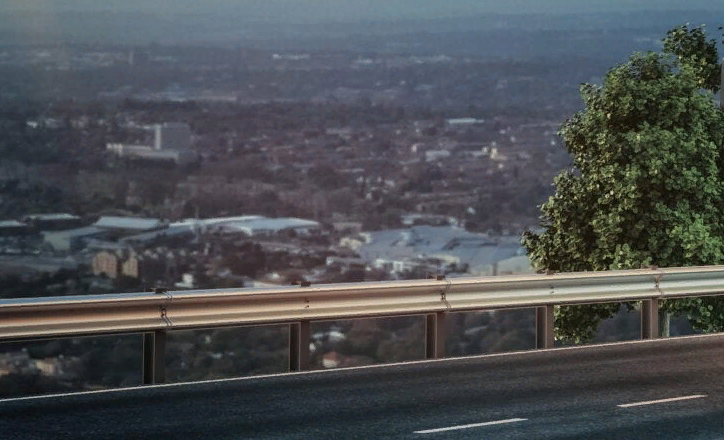
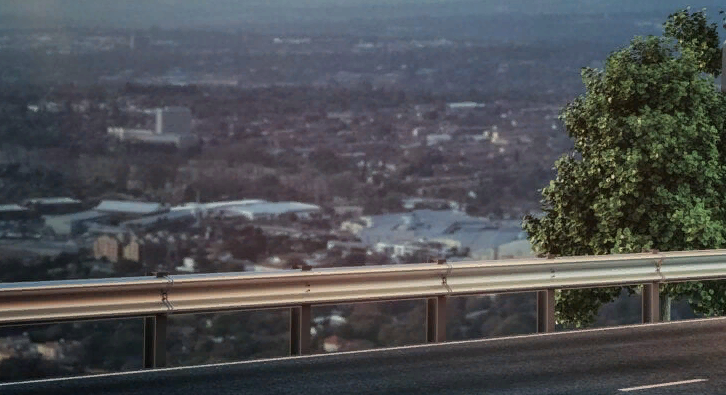
create project

diff --git a/MySite/HTML/Main.html b/MySite/HTML/Main.html
@@ -3,11 +3,11 @@
 <head>
 	<meta charset="utf-8">
 	<meta name="viewport" content="width=device-width, initial-scale=1">
+	<link rel="stylesheet" type="text/css" href="../CSS/header.css">
 	<title>Corporate website design for logistics company</title>
 </head>
 <body>
 <header>
-	<img src="C:\Users\gaert\Desktop\MySite\IMAGES\truck_zoom_on" alt="BackgroundImage">
 </header>
 </body>
 </html>

diff --git a/MySite/CSS/header.css b/MySite/CSS/header.css
@@ -1,0 +1,12 @@
+body{
+	width: 1800px;
+
+}
+
+header{
+	width: 1826px;
+	height: 1015px;
+	margin: -9px -9px;
+	background-image: url("../IMAGES/avatar_photo.png");
+}
+
